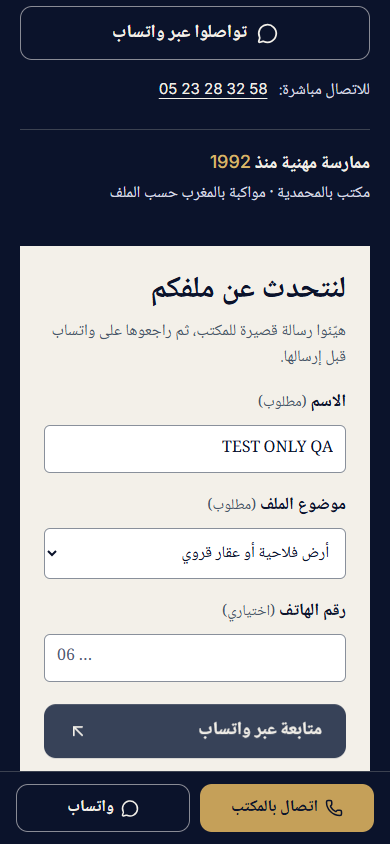
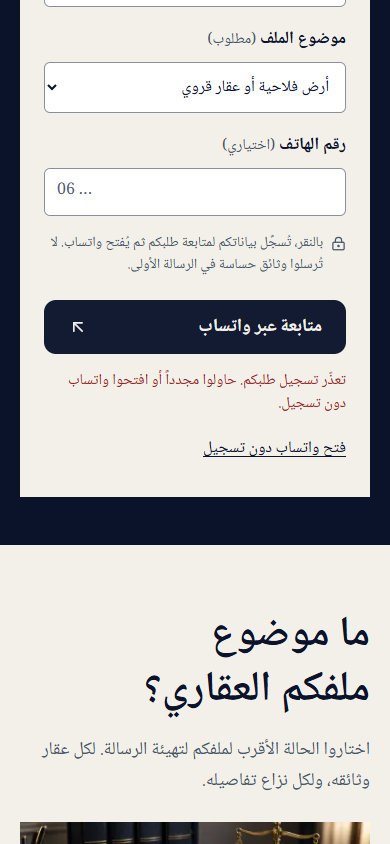
wip

diff --git a/app/ads/immobilier/landing.module.css b/app/ads/immobilier/landing.module.css
@@ -214,7 +214,7 @@
   .page[lang="fr-MA"] .brand { font-size: 1rem; }
   .page[lang="fr-MA"] .brandDetail { font-size: .75rem; }
   .page[lang="fr-MA"] .sectionIntro h2, .page[lang="fr-MA"] .lawyerSection h2, .page[lang="fr-MA"] .processIntro h2, .page[lang="fr-MA"] .faqSection h2, .page[lang="fr-MA"] .finalSection h2 { font-size: 2.25rem; }
-  .page:has(.form input:focus) .mobileContact, .page:has(.form select:focus) .mobileContact { display: none; }
+  .page:has(.form:focus-within) .mobileContact { display: none; }
 }
 @media (max-width: 350px) {
   .container { padding-inline: 18px; }

diff --git a/.impeccable/review/immobilier-supabase-integration.md b/.impeccable/review/immobilier-supabase-integration.md
@@ -41,4 +41,8 @@ Test réel : `node scripts/verify-immobilier-leads-live.mjs`. Deux demandes `TES
 
 Test navigateur : `node .impeccable/verify-immobilier-supabase.mjs`, avec `ADS_PREVIEW_ORIGIN=http://localhost:3112`. Supabase, Analytics et WhatsApp sont interceptés ; aucune demande réelle ni message envoyé. Captures `supabase-{ar,fr}-{desktop,mobile,narrow}.png` et états loading/error pour desktop/mobile. Rapport : `supabase-form-checks.json`.
 
+Résultat final : sept groupes de vérifications navigateur passent (les six combinaisons langue/taille et la récupération après limitation), aucune erreur JavaScript. Compilation finale de 57 pages et TypeScript réussis ; validation SEO réussie. Analyse de 120 fichiers client : aucune occurrence de la clé secrète configurée. `.env.local` est confirmé ignoré par Git.
+
+Corrections issues des vérifications : erreur automatiquement centrée et focalisée ; barre mobile masquée pendant le focus de tout le formulaire, y compris le bouton, pour éviter une interception du clic lors de la sortie d’un champ. Le libellé français de présélection est abrégé pour ne pas être tronqué aux petites tailles. Revue visuelle effectuée par l’agent principal, sans nouveau monde, sans modification du système global et sans prétendre à une nouvelle revue indépendante de la surface entière.
+
 Un seul passage du détecteur pour cette extension : sortie tronquée, avertissements visibles sur les fontes et valeurs du système existant. Aucun second passage ; pas de prétention à une attestation exhaustive. Impeccable a guidé les états localisés, l’information avant le clic, la récupération en cas d’erreur et les entrées françaises d’au moins 16 px. Le système global et le raster existant n’ont pas été modifiés.
